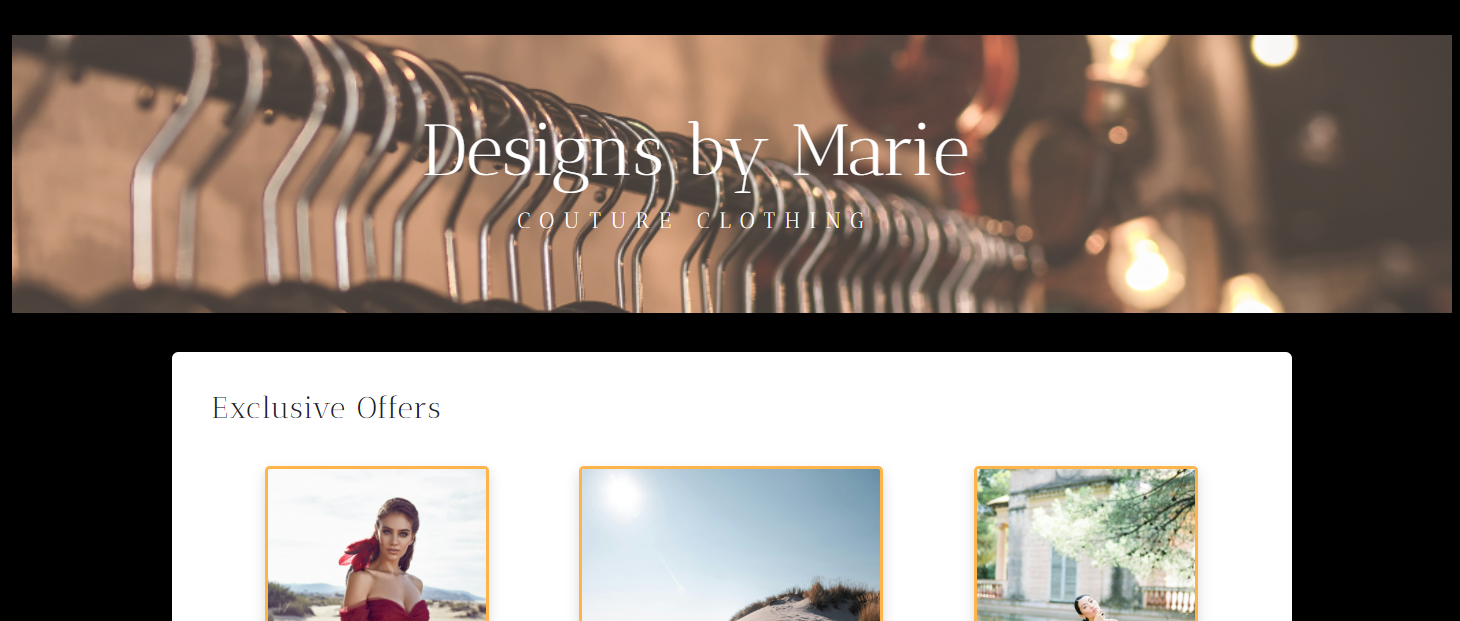
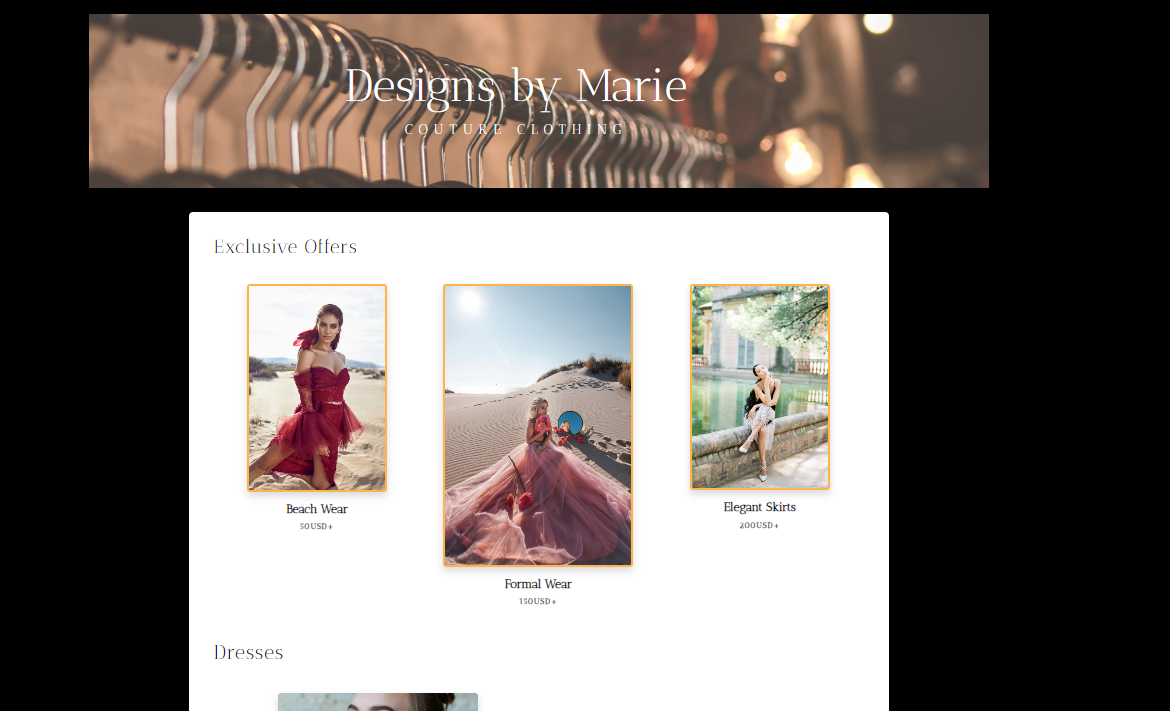
Added new image size for e-commerce site. Added new wording in buttons.

diff --git a/index.html b/index.html
@@ -71,7 +71,7 @@
   <h3 class="mt-5 mb-5">A Few of My Designs</h3>    
   <div class="row mt-20">
         <div class="col-md-6">
-          <img src="images/e-commerce.png" width="700" class="img-fluid rounded mb-2" alt="Clothing Website"/>
+          <img src="images/e-commerce.png"  class="img-fluid rounded mb-2" alt="Clothing Website"/>
         </div>
        
         <div class="col-md-6">
@@ -82,15 +82,14 @@
                <br/>
             <br/>
             <br/>
-          <a href="https://internationalclocksampm.netlify.app" target="_blank" class="btn-branding" title="International Clocks">
-            World Clocks App</a>
+          <a href="https://couture-clothing-web-app.netlify.app/" target="_blank" class="btn-branding" title="International Clocks">Check It Out</a>
           </p>
       </div>
         
       </div>
    <div class="row mt-5">
         <div class="col-md-6">
-          <img src="images/home=remodel.png" width="700" class="img-fluid rounded mb-2" alt="House Design and Remodel" />
+          <img src="images/home=remodel.png" class="img-fluid rounded mb-2" alt="House Design and Remodel" />
         </div>
         
         <div class="col-md-6">
@@ -100,12 +99,12 @@
             <br/>
                <br/>
             <br/>
-          <a href="https://home-remodel-design.netlify.app" target="_blank" class="btn-branding" title="House Design and Remodel">House Design and Remodel App</a>
+          <a href="https://home-remodel-design.netlify.app" target="_blank" class="btn-branding" title="House Design and Remodel">Check It Out</a>
           </p>
           </div>
           <div class="row mt-5">
         <div class="col-md-6">
-          <img src="images/react-weather.png" width="700" class="img-fluid rounded mb-2" alt="Weather App"/>
+          <img src="images/react-weather.png" class="img-fluid rounded mb-2" alt="Weather App"/>
         </div>
         <div class="col-md-6">
           <h2 class="heading">Weather App</h2>
@@ -114,7 +113,7 @@
             <br/>
             <br/>
                <br/>
-          <a href="https://react-weather-aam.netlify.app/" target="_blank" class="btn-branding" title="React Weather App">React Weather App</a>
+          <a href="https://react-weather-aam.netlify.app/" target="_blank" class="btn-branding" title="React Weather App">Check It Out</a>
           </p>
           </div>
           </div>
